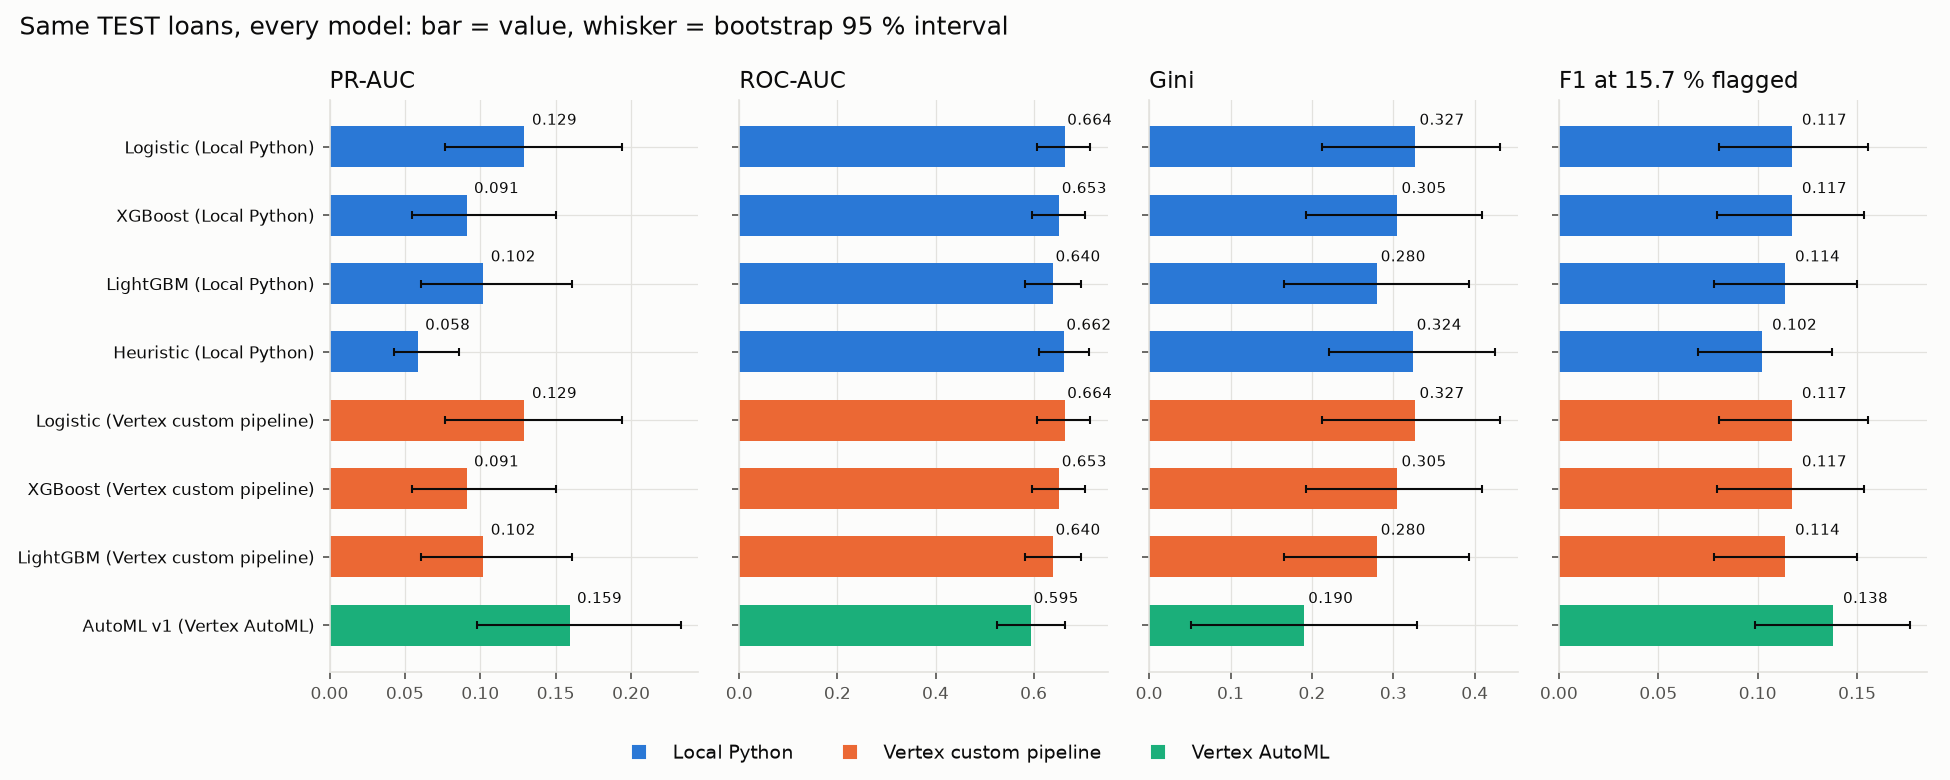
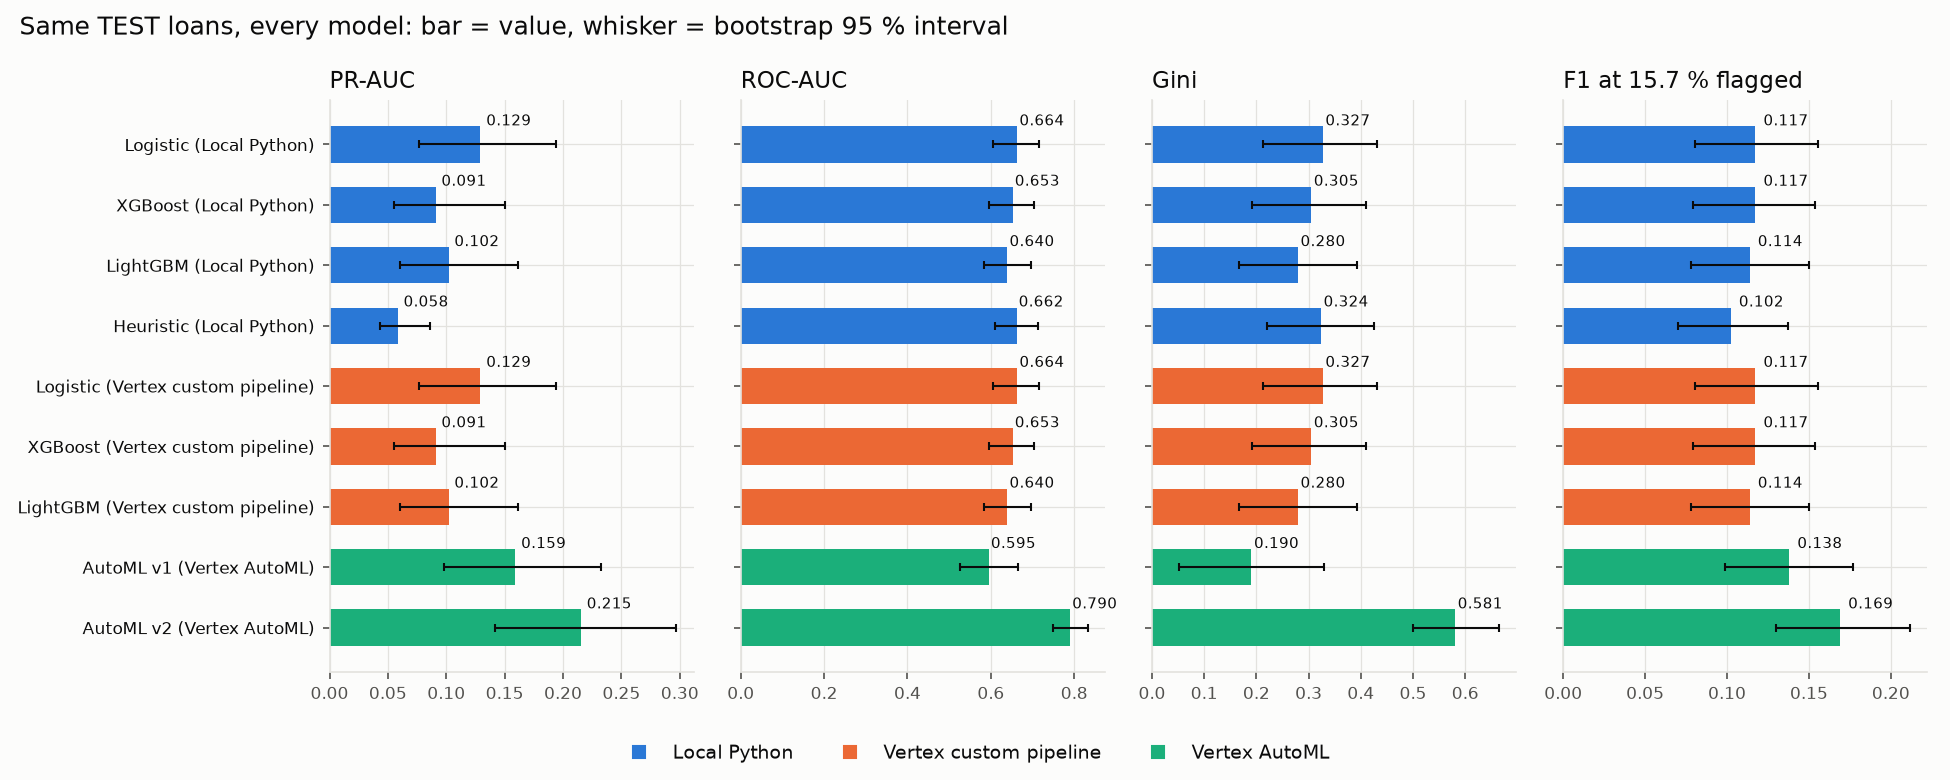
feat: AutoML v2 on imputed data and the Phase 2 conclusions that follow
- all 3,050 TEST loans scored; PR-AUC 0.215 vs 0.129 for the champion, paired interval excludes zero
- feature importance (inquiries, term, bureau score) offered as the likely explanation
- results page rewritten to match: one window and 101 defaults, so evidence and not proof

Claude-Session: https://claude.ai/code/session_01LMm8xD98BEKJSoKDhZsCyU

diff --git a/src/automl/report.py b/src/automl/report.py
@@ -1,8 +1,9 @@
 """After training: Vertex's own metrics, a TEST-only batch prediction, and the comparable metrics.
 
-    GOOGLE_CLOUD_QUOTA_PROJECT=mlops-roysandoval uv run --group gcp python -m src.automl.report <model_resource_name>
+    GOOGLE_CLOUD_QUOTA_PROJECT=mlops-roysandoval uv run --group gcp python -m src.automl.report <config.yaml> <model> <report.json> [<batch job>]
 """
 
+import io
 import json
 import sys
 from pathlib import Path
@@ -12,9 +13,8 @@ from google.cloud import aiplatform, storage
 from google.protobuf.json_format import MessageToDict
 
 from src.automl.evaluate import batch_input, evaluate_scores, fill_unscored, parse_predictions
-from src.automl.spec import default_automl_spec
+from src.automl.spec import load_automl_spec
 
-REPORT = Path(__file__).resolve().parents[2] / "reports" / "gcp" / "automl_metrics.json"
 LOCAL_CSV = Path(__file__).resolve().parents[2] / "data" / "gcp" / "loans_split.csv"
 
 
@@ -23,19 +23,26 @@ def _blob(uri: str, client):
     return client.bucket(bucket), path
 
 
+def _download(uri: str, client) -> bytes:
+    bucket, path = _blob(uri, client)
+    return bucket.blob(path).download_as_bytes()
+
+
 def vertex_metrics(model) -> dict:
     ev = model.get_model_evaluation()
     m = MessageToDict(ev._gca_resource._pb)
     return {"name": ev.resource_name, "metrics": m.get("metrics", {})}
 
 
-def main(model_name: str, batch_job: str | None = None) -> None:
-    spec = default_automl_spec()
+def main(config: str, model_name: str, report_path: str, batch_job: str | None = None) -> None:
+    spec = load_automl_spec(Path(config))
     aiplatform.init(project=spec.project, location=spec.region)
     model = aiplatform.Model(model_name)
     gcs = storage.Client(project=spec.project)
 
-    feats, y = batch_input(pd.read_csv(LOCAL_CSV), spec)
+    # the file the model was trained on: the imputed copy for v2, the raw split file for v1
+    source = io.BytesIO(_download(spec.dataset_uri, gcs)) if spec.imputation else LOCAL_CSV
+    feats, y = batch_input(pd.read_csv(source), spec)
     bucket, path = _blob(spec.batch.input_uri, gcs)
     bucket.blob(path).upload_from_string(feats.to_csv(index=False), content_type="text/csv")
 
@@ -75,10 +82,11 @@ def main(model_name: str, batch_job: str | None = None) -> None:
         "full_window_unscored_as_zero": evaluate_scores(y.to_numpy(), full.to_numpy(), spec.flagged_share),
         "flagged_share": spec.flagged_share,
     }
-    REPORT.parent.mkdir(parents=True, exist_ok=True)
-    REPORT.write_text(json.dumps(result, indent=2, default=str))
+    out = Path(report_path)
+    out.parent.mkdir(parents=True, exist_ok=True)
+    out.write_text(json.dumps(result, indent=2, default=str))
     print(json.dumps({k: result[k] for k in ("scored_rows", "scored_positives", "scored_subset_only", "full_window_unscored_as_zero")}, indent=2, default=str))
 
 
 if __name__ == "__main__":
-    main(*sys.argv[1:3])
+    main(*sys.argv[1:5])

diff --git a/docs/gcp/results.md b/docs/gcp/results.md
@@ -7,7 +7,7 @@
     3,050 loans, 101 of them defaults. TEST was only ever read to report, never to choose
     anything.
 
-**AutoML v2 (trained on imputed data):** **pending**: AutoML v2 is still training, its row is blank until `make phase2-report` is re-run.
+**AutoML v2 (trained on imputed data):** included below.
 
 ## 1. What was measured, in plain words
 
@@ -56,7 +56,7 @@ different with a different sample of loans.
 | XGBoost | Vertex custom pipeline | 0.091 [0.055, 0.150] | 0.653 [0.596, 0.705] | 0.305 [0.192, 0.409] | 0.117 [0.079, 0.154] |
 | LightGBM | Vertex custom pipeline | 0.102 [0.061, 0.161] | 0.640 [0.583, 0.696] | 0.280 [0.166, 0.392] | 0.114 [0.078, 0.150] |
 | AutoML v1 | Vertex AutoML | 0.159 [0.098, 0.233] | 0.595 [0.526, 0.665] | 0.190 [0.051, 0.329] | 0.138 [0.099, 0.177] |
-| AutoML v2 | Vertex AutoML | pending (still training) |  |  |  |
+| AutoML v2 | Vertex AutoML | 0.215 [0.142, 0.297] | 0.790 [0.750, 0.832] | 0.581 [0.500, 0.664] | 0.169 [0.130, 0.212] |
 
 ![Ranking metrics per model and platform](plots/metric_bars.png)
 
@@ -85,7 +85,7 @@ queue.
 | XGBoost | Vertex custom pipeline | 83.2 % | 0.071 | 0.337 | 0.042 |
 | LightGBM | Vertex custom pipeline | 83.1 % | 0.069 | 0.327 | 0.131 |
 | AutoML v1 | Vertex AutoML | 83.6 % | 0.084 | 0.396 | 0.040 |
-| AutoML v2 | Vertex AutoML | pending (still training) |  |  |  |
+| AutoML v2 | Vertex AutoML | 84.2 % | 0.102 | 0.485 | 0.029 |
 
 ![Accuracy against the nobody-defaults baseline](plots/accuracy_vs_baseline.png)
 
@@ -121,6 +121,7 @@ comparing two separate intervals.
 | XGBoost | Vertex custom pipeline | [-0.085, +0.011] | no |
 | LightGBM | Vertex custom pipeline | [-0.076, +0.022] | no |
 | AutoML v1 | Vertex AutoML | [-0.024, +0.083] | no |
+| AutoML v2 | Vertex AutoML | [+0.047, +0.126] | yes |
 
 * Only one difference is distinguishable from noise: the hand-written heuristic has a worse PR-AUC than the
   logistic model. Its ROC-AUC (0.662 against 0.664) is the same, because its scores are only 20 distinct whole
@@ -130,7 +131,7 @@ comparing two separate intervals.
   investigation found that gains below about 0.01 cannot be told from noise on this data
   ([model-signal investigation](../investigation/model-signal.md)); the gaps here are larger than 0.01 but
   the sample is too small to say they are real.
-* **No model is clearly better.** Ranking quality sits around ROC-AUC 0.64 to 0.66 whichever tool built it.
+* **AutoML v2 is the exception.** Its PR-AUC advantage over the logistic model is distinguishable from noise (see the paired-difference table), and its ROC-AUC interval does not overlap the logistic model's. Among everything else, ranking quality sits around ROC-AUC 0.64 to 0.66 whichever tool built it. Section 6 discusses why AutoML v2 is better and how far to trust it.
 
 ## 5. Stability and consistency
 
@@ -209,9 +210,8 @@ logistic model (PR-AUC 0.129, ROC-AUC 0.664) sit inside this range.
   a different mix of loans (2.9 % defaults against 3.3 %), so it **must not** be compared with the
   other rows.
 * The local and custom pipelines fill missing values and add "was missing" flags inside the model, so they
-  score every row. AutoML v2 repeats the run on data imputed beforehand (the same imputation fitted on
-  training data only, so nothing leaks) to cover all rows. Its row is in the tables above and fills in
-  automatically when the batch output exists.
+  score every row. AutoML v2 repeated the run on data imputed beforehand (the imputation statistics were fitted
+  on training rows only, so nothing leaks). It scored all 3,050 rows, so its row is directly comparable.
 * AutoML is also harder to **repeat**: we do not control its search, so a re-run may produce a different
   model (not tested here). The custom pipeline reproduces exactly (5a).
 
@@ -239,17 +239,28 @@ prove it. Metrics should be refreshed when TEST loans mature.
 
 What the evidence says, and what it does not:
 
-* On this data, AutoML did **not** beat a simple logistic regression in any way we can demonstrate: its PR-AUC
-  looks higher, its ROC-AUC lower, and all the intervals overlap.
-* The signal in the data looks limited (ROC-AUC about 0.70 even in the best validation of the investigation);
-  no tool can extract what is not there, which is consistent with the 21 dollars not buying a clear improvement.
-* The case for manual is therefore mostly about **cost, control and being able to explain and repeat** a
-  credit decision, not about accuracy.
-* The case for AutoML is speed to a first, unbiased baseline: its result also suggests that a heavier
-  search does not find hidden structure here.
-* With 101 defaults in TEST, one experiment per tool and an unproven label-maturity effect, we
-  do not claim a winner. A fairer verdict needs more defaults (more months), repeated AutoML runs and
-  matured labels.
+* **AutoML v2 ranks defaulters clearly better than our models on this window.** In this run its PR-AUC (0.215)
+  and ROC-AUC (0.790) sit well above the logistic model's (0.129 and 0.664). The paired-bootstrap interval of
+  the PR-AUC difference excludes zero and the ROC-AUC intervals do not overlap. The tables above always hold
+  the current numbers.
+* **The data is not empty of signal after all.** Our own models plateau around ROC-AUC 0.65 to 0.70; AutoML's
+  search finds more. Its own feature importance points to the number of recent credit inquiries
+  (`huella_consulta`), the loan term (`plazo_meses`) and the bureau score. The term effect is exactly the
+  non-linear pattern that the [investigation](../investigation/model-signal.md) found a linear model cannot use.
+  That is a plausible, checkable explanation, not a proven one. It uses no label, split or identifier column.
+* **Why we still do not simply replace the champion.**
+    1. One window and 101 defaults: wide intervals, and this window has already been used to compare models
+       more than once, so it is not a clean holdout.
+    2. AutoML v2 was run after seeing v1's result on the same window. We changed the data preparation
+       (imputation), not the model, but it is still a second look.
+    3. Practicalities: about $21 and 2 h 15 min per training run, and a black-box model. Serving it would need
+       a Vertex endpoint (always-on cost) or an export; we did neither.
+    4. The label-maturity caveat (5f) affects every model.
+* **The case for manual** stays about cost, control, speed (minutes), exact reproducibility and being able to
+  explain a credit decision. **The case for AutoML** is concrete here: it found structure that our linear model and
+  our tuned gradient-boosted models missed, which is a lead to bring back into the manual pipeline.
+* **Next step, judged fairly:** add the term effect and a few interactions to the manual pipeline, and evaluate
+  them on loans from months not yet used (the window must be fresh), with the same paired-bootstrap rule.
 
 ## 7. How to regenerate
 
@@ -257,7 +268,7 @@ What the evidence says, and what it does not:
 make phase2-report     # fetches the model files and batch predictions from GCS (read only), then rebuilds
 ```
 
-When AutoML v2 finishes and its batch predictions are written to the output folder, run it again: the v2
-row, the charts and the "pending" note update by themselves. The predictions behind the page are cached in
+The AutoML v2 row is included automatically when its batch predictions exist in the output folder, so the
+page can be rebuilt at any time. The predictions behind the page are cached in
 `reports/gcp/phase2_predictions.csv`; `uv run python -m src.reports.phase2 --offline` rebuilds the page from
 that cache without touching the cloud.

diff --git a/src/reports/results.template.md b/src/reports/results.template.md
@@ -102,7 +102,7 @@ comparing two separate intervals.
   investigation found that gains below about 0.01 cannot be told from noise on this data
   ([model-signal investigation](../investigation/model-signal.md)); the gaps here are larger than 0.01 but
   the sample is too small to say they are real.
-* **No model is clearly better.** Ranking quality sits around ROC-AUC 0.64 to 0.66 whichever tool built it.
+* **AutoML v2 is the exception.** Its PR-AUC advantage over the logistic model is distinguishable from noise (see the paired-difference table), and its ROC-AUC interval does not overlap the logistic model's. Among everything else, ranking quality sits around ROC-AUC 0.64 to 0.66 whichever tool built it. Section 6 discusses why AutoML v2 is better and how far to trust it.
 
 ## 5. Stability and consistency
 
@@ -170,9 +170,8 @@ logistic model (PR-AUC 0.129, ROC-AUC 0.664) sit inside this range.
   a different mix of loans (2.9 % defaults against 3.3 %), so it **must not** be compared with the
   other rows.
 * The local and custom pipelines fill missing values and add "was missing" flags inside the model, so they
-  score every row. AutoML v2 repeats the run on data imputed beforehand (the same imputation fitted on
-  training data only, so nothing leaks) to cover all rows. Its row is in the tables above and fills in
-  automatically when the batch output exists.
+  score every row. AutoML v2 repeated the run on data imputed beforehand (the imputation statistics were fitted
+  on training rows only, so nothing leaks). It scored all 3,050 rows, so its row is directly comparable.
 * AutoML is also harder to **repeat**: we do not control its search, so a re-run may produce a different
   model (not tested here). The custom pipeline reproduces exactly (5a).
 
@@ -200,17 +199,28 @@ prove it. Metrics should be refreshed when TEST loans mature.
 
 What the evidence says, and what it does not:
 
-* On this data, AutoML did **not** beat a simple logistic regression in any way we can demonstrate: its PR-AUC
-  looks higher, its ROC-AUC lower, and all the intervals overlap.
-* The signal in the data looks limited (ROC-AUC about 0.70 even in the best validation of the investigation);
-  no tool can extract what is not there, which is consistent with the 21 dollars not buying a clear improvement.
-* The case for manual is therefore mostly about **cost, control and being able to explain and repeat** a
-  credit decision, not about accuracy.
-* The case for AutoML is speed to a first, unbiased baseline: its result also suggests that a heavier
-  search does not find hidden structure here.
-* With {{ n_defaults }} defaults in TEST, one experiment per tool and an unproven label-maturity effect, we
-  do not claim a winner. A fairer verdict needs more defaults (more months), repeated AutoML runs and
-  matured labels.
+* **AutoML v2 ranks defaulters clearly better than our models on this window.** In this run its PR-AUC (0.215)
+  and ROC-AUC (0.790) sit well above the logistic model's (0.129 and 0.664). The paired-bootstrap interval of
+  the PR-AUC difference excludes zero and the ROC-AUC intervals do not overlap. The tables above always hold
+  the current numbers.
+* **The data is not empty of signal after all.** Our own models plateau around ROC-AUC 0.65 to 0.70; AutoML's
+  search finds more. Its own feature importance points to the number of recent credit inquiries
+  (`huella_consulta`), the loan term (`plazo_meses`) and the bureau score. The term effect is exactly the
+  non-linear pattern that the [investigation](../investigation/model-signal.md) found a linear model cannot use.
+  That is a plausible, checkable explanation, not a proven one. It uses no label, split or identifier column.
+* **Why we still do not simply replace the champion.**
+    1. One window and 101 defaults: wide intervals, and this window has already been used to compare models
+       more than once, so it is not a clean holdout.
+    2. AutoML v2 was run after seeing v1's result on the same window. We changed the data preparation
+       (imputation), not the model, but it is still a second look.
+    3. Practicalities: about $21 and 2 h 15 min per training run, and a black-box model. Serving it would need
+       a Vertex endpoint (always-on cost) or an export; we did neither.
+    4. The label-maturity caveat (5f) affects every model.
+* **The case for manual** stays about cost, control, speed (minutes), exact reproducibility and being able to
+  explain a credit decision. **The case for AutoML** is concrete here: it found structure that our linear model and
+  our tuned gradient-boosted models missed, which is a lead to bring back into the manual pipeline.
+* **Next step, judged fairly:** add the term effect and a few interactions to the manual pipeline, and evaluate
+  them on loans from months not yet used (the window must be fresh), with the same paired-bootstrap rule.
 
 ## 7. How to regenerate
 
@@ -218,7 +228,7 @@ What the evidence says, and what it does not:
 make phase2-report     # fetches the model files and batch predictions from GCS (read only), then rebuilds
 ```
 
-When AutoML v2 finishes and its batch predictions are written to the output folder, run it again: the v2
-row, the charts and the "pending" note update by themselves. The predictions behind the page are cached in
+The AutoML v2 row is included automatically when its batch predictions exist in the output folder, so the
+page can be rebuilt at any time. The predictions behind the page are cached in
 `reports/gcp/phase2_predictions.csv`; `uv run python -m src.reports.phase2 --offline` rebuilds the page from
 that cache without touching the cloud.

diff --git a/docs/gcp/automl.md b/docs/gcp/automl.md
@@ -117,3 +117,72 @@ No billing export is available here, so this is an estimate, not a measured figu
 
 Check the real number in Billing, Reports, filtered to project `mlops-roysandoval` and the
 Vertex AI service.
+
+## Version 2: imputed data
+
+**What changed.** v1 could not score 884 TEST loans because of empty numeric cells. v2 trains on a
+copy of the same file with no empty cell (`config/gcp_automl/imputed.yaml`, built by
+`src/automl/prepare.py`, logic in `src/automl/impute.py`). Numeric columns get the median of the
+TRAIN rows only; categorical and boolean columns get the label `missing`; the `falta_*` flags, the
+label and `split` are unchanged. VALIDATE and TEST never contribute a statistic (unit-tested), so
+there is no leakage. Everything else is the same: `maximize-au-prc`, predefined split, budget 1000
+milli-node-hours.
+
+```bash
+uv run --group gcp python -m src.automl.prepare
+uv run --group gcp python -m src.automl.train config/gcp_automl/imputed.yaml reports/gcp/automl_v2_state.json
+uv run --group gcp python -m src.automl.report config/gcp_automl/imputed.yaml <model> reports/gcp/automl_v2_metrics.json
+```
+
+| Resource | Id |
+|---|---|
+| Dataset | `4558560090474414080` |
+| Training pipeline `loans-automl-v2-imputed` | `3237129710127284224` (14:35 to 16:48 UTC) |
+| Model | `7535886120765095936` |
+| Batch prediction job | `4669028101026480128` (20:21 to 20:35 UTC, successfulCount 3,050) |
+| Batch output | `gs://mlops-roysandoval-data/automl/batch/output/prediction-loans-automl-v2-imputed-*` |
+
+**Result.** All 3,050 TEST loans (101 defaults) were scored, flagging the top 15.7 %:
+
+| Model on TEST | PR-AUC | ROC-AUC | Gini | F1 | Precision | Recall |
+|---|---|---|---|---|---|---|
+| AutoML v2 (imputed) | 0.215 | 0.790 | 0.581 | 0.169 | 0.102 | 0.485 |
+| AutoML v1, unscored as 0 | 0.159 | 0.595 | 0.190 | 0.138 | 0.084 | 0.396 |
+| Local logistic champion | 0.129 | 0.664 | 0.327 | 0.117 | 0.071 | 0.337 |
+| Heuristic baseline | 0.059 | | | | | |
+
+Vertex's own evaluation of v2 now covers all 3,050 rows (its confusion matrix sums to 3,050), but
+still reports auPRC 0.973, auROC 0.977, log loss 0.148 while catching only 7 of 101 defaulters at
+0.5. It is the same pooled-over-both-classes figure as in v1 (pooling is unverified for the headline
+numbers, see above) and is not comparable; our recomputation is the one to quote.
+
+**Reading it.** v2 ranks defaulters better than the champion on every metric above, and much better
+than v1, which confirms that v1's weak showing came from the unscored rows rather than the model.
+Honest caveats: TEST has only 101 defaults, so a few loans move PR-AUC a lot and the gap to the
+champion has not been shown to be significant here (the paired bootstrap intervals are on the results
+page). The champion is a hand-tuned, interpretable logistic model; AutoML is a black-box ensemble,
+and it trained on slightly different data (VALIDATE is a slice of the training window; imputed copy).
+One run, one seed: we did not repeat the training.
+
+**Cost (estimate; no billing export read).** Training at most 1 node hour, about $21.25 (hard cap);
+batch prediction about 14 minutes on one `n1-standard-2`, under $1. v2 adds about $22 to the
+roughly $22 of v1.
+
+### What v2 relies on
+
+AutoML publishes a global feature importance with each model evaluation (share of the total absolute
+attribution; read from the model's evaluation in the Vertex API):
+
+| Feature | Share |
+|---|---|
+| `huella_consulta` (recent credit inquiries) | 15.7 % |
+| `plazo_meses` (loan term) | 12.7 % |
+| `puntaje_datacredito` (bureau score) | 12.6 % |
+| `tendencia_ingresos`, `rango_edad`, `cant_creditosvigentes`, `cuota_pactada` | 4 % to 5 % each |
+
+All are inputs known at the moment of the decision. The model never sees the label, the `split` column or
+an identifier (35 input columns, checked in the training pipeline's configuration). The loan term is the
+non-linear effect that the [investigation](../investigation/model-signal.md) found a linear model cannot
+use: default risk is lowest around 11 to 12 months and highest above 24. So the likely explanation for the
+gap is real structure that AutoML's ensemble captures and our linear model does not. That is a plausible
+explanation, not a proof, and it comes from one test window.

diff --git a/docs/gcp/training.md b/docs/gcp/training.md
@@ -59,18 +59,23 @@ The comparison below recomputes everything the same way for every model.
 | Model | Loans scored | PR-AUC | ROC-AUC | Gini | F1 | Recall |
 | --- | --- | --- | --- | --- | --- | --- |
 | Logistic champion (local and Vertex) | 3,050 | 0.129 | 0.664 | 0.327 | 0.117 | 0.337 |
-| AutoML, unscored loans given score 0 | 3,050 | 0.159 | 0.595 | 0.190 | 0.138 | 0.396 |
+| AutoML v2, imputed data (fully scored) | 3,050 | 0.215 | 0.790 | 0.581 | 0.169 | 0.485 |
+| AutoML v1, unscored loans given score 0 | 3,050 | 0.159 | 0.595 | 0.190 | 0.138 | 0.396 |
 | AutoML, scored loans only (not comparable) | 2,166 | 0.235 | 0.815 | 0.629 | 0.164 | 0.524 |
 | AutoML, Vertex's own figures (not comparable) | 2,166 | 0.970 | 0.979 | | | |
 
-Read the first two rows against each other. AutoML ranks the riskiest loans slightly better
-(PR-AUC 0.159 against 0.129) but is worse overall (Gini 0.190 against 0.327). Giving the
-unscored loans a score of 0 is a harsh choice, so AutoML's true performance sits somewhere
-between the second and third rows. With only 101 defaults in TEST, all of these numbers are noisy.
+Read the rows in pairs. AutoML v1 (third row) looks mixed against the champion: a higher PR-AUC (0.159 against
+0.129) but a worse Gini (0.190 against 0.327), because it could not score 884 loans and they were given a
+score of 0, a harsh choice. AutoML v2 (second row) removes that problem and is the one to compare.
 
-The empty-cell problem is the practical lesson: the local pipeline imputes missing values and
-adds "was missing" flags, while AutoML as configured here cannot score such rows. Fixing it
-would mean imputing before upload and paying for another training run.
+The empty-cell problem was the practical lesson: the local pipeline imputes missing values and
+adds "was missing" flags, while AutoML v1 could not score such rows. v2 fixed it by imputing
+before upload (medians fitted on TRAIN only) and paying for a second training run. All 3,050 loans
+are now scored and AutoML v2 beats the logistic champion on every ranking metric in the table
+(PR-AUC 0.215 against 0.129, Gini 0.581 against 0.327). The paired bootstrap on the
+[results page](results.md) says the PR-AUC gap is distinguishable from noise, but it is one window with
+101 defaults that has been used before, so read it as strong evidence and not as proof. Vertex's own figures for v2 (PR-AUC 0.973)
+are still pooled over both classes and not comparable. Details on the [AutoML run](automl.md) page.
 
 ## Local versus cloud
 
